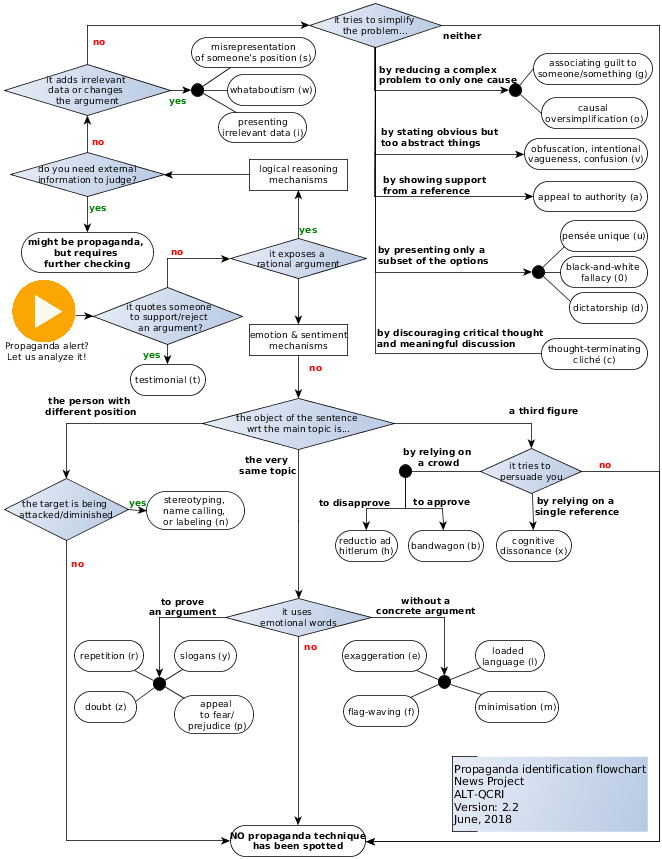
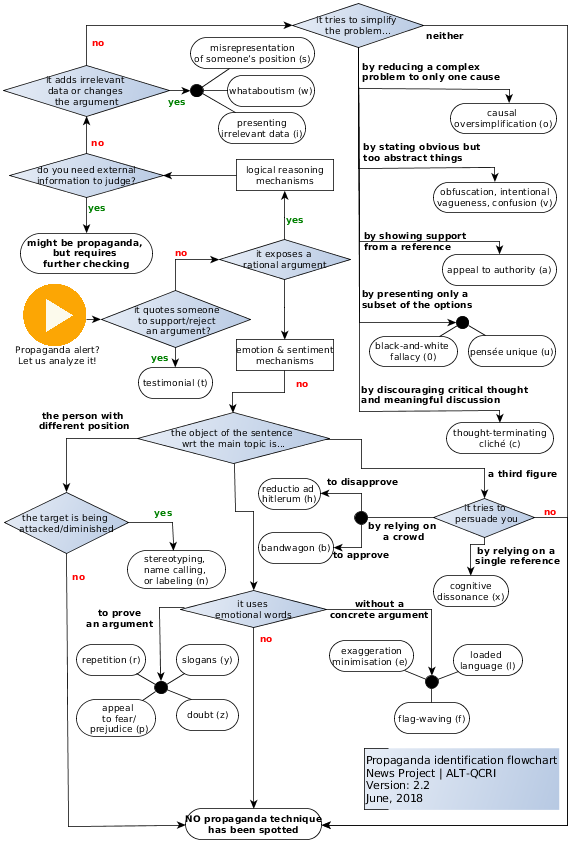
made some labels more visible; exported the flowchart on html

Changed region(s): [[0.0, 0.0, 1.0, 1.0], [0.2088, 0.9561, 0.2684, 0.987]]

diff --git a/flowchart/structuring_propaganda_mechanism_decision.html b/flowchart/structuring_propaganda_mechanism_decision.html
@@ -98,130 +98,122 @@ tooltip.style.display = "none";
 <div class="tooltip" id="n5">Attempting to arouse prejudices in<br> an audience by labeling the object<br> of the propaganda campaign as<br> something the target audience<br> fears, hates, or finds undesirable</div>
 <div class="tooltip" id="n6">it uses <br>emotional words</div>
 <div class="tooltip" id="n7">Using specific words and phrases<br> with strong emotional implications to<br> influence an audience<br></div>
-<div class="tooltip" id="n8">Making something seem less<br> important or smaller than it really is</div>
-<div class="tooltip" id="n9">Representation of something in an<br> excessive manner</div>
-<div class="tooltip" id="n10">Justifying an action based on the<br> undue connection to nationalism or<br> patriotism</div>
-<div class="tooltip" id="n11">Questioning something or someone's<br> credibility</div>
-<div class="tooltip" id="n12">appeal <br>to fear/<br>prejudice (p)</div>
-<div class="tooltip" id="n13">A brief and striking phrase that may<br> include labeling and stereotyping.<br> Slogans tend to act only as<br> emotional appeals</div>
-<div class="tooltip" id="n14">it tries to <br>persuade you<br></div>
-<div class="tooltip" id="n18"> do you need external <br>information to judge?</div>
-<div class="tooltip" id="n19">might be propaganda, <br>but requires <br>further checking</div>
-<div class="tooltip" id="n20">it tries to simplify <br>the problem...</div>
-<div class="tooltip" id="n22">Moving the audience by using<br> undefined phrases, without<br> analyzing their validity or<br> attempting to determine their<br> reasonableness or application.<br></div>
-<div class="tooltip" id="n23">Moving blame and responsibility away<br> from themselves by attributing it to<br> others</div>
-<div class="tooltip" id="n24">Providing one single simple cause for a complex problem.<br>Example: “President Trump has been in office for a month and <br>gas prices have been skyrocketing. <br>The rise in gas prices is because<br> of President Trump.”</div>
-<div class="tooltip" id="n25">Enforced reduction of discussion by<br> use of overly simplistic phrases or<br> arguments</div>
-<div class="tooltip" id="n26">Presenting two alternative options as<br> the only possibilities, when in fact<br> more possibilities exist</div>
-<div class="tooltip" id="n27">it adds irrelevant <br>data or changes <br>the argument	</div>
-<div class="tooltip" id="n29">discredit an opponent's proposition by mentioning <br>an event that discredit the opponent or distract <br>the attention from the <br>main claim: ``What about...?''</div>
-<div class="tooltip" id="n30">Using data or issues that are<br> irrelevant to validate an argument</div>
-<div class="tooltip" id="n31">(straw men): when an opponent's<br> proposition is substituted with a<br> similar one which is then refuted <br>in place of the original proposition.<br></div>
-<div class="tooltip" id="n32">NO propaganda technique<br>has been spotted<br></div>
-<div class="tooltip" id="n33">Propaganda identification flowchart<br>News Project<br>ALT-QCRI<br>Version: 2.2<br>June, 2018</div>
-<div class="tooltip" id="n35">Simplify the decision making<br> process by using words to tell the<br> audience exactly what actions to<br> take, eliminating any other<br> possible choices</div>
-<div class="tooltip" id="n36">Cite prominent figures to support a<br> position, idea, argument, or course<br> of action</div>
-<div class="tooltip" id="n37">Using someones’ else endorsement<br> of a candidate or a product to<br> change people's minds because<br> people cannot tolerate <br>inconsistency</div>
-<div class="tooltip" id="n38">Words or phrases that discourage<br> critical thought and meaningful<br> discussion about a given topic</div>
-<div class="tooltip" id="n39">Attempting to persuade the target<br> audience to join in and take the<br> course of action because "everyone<br> else is taking the same action"</div>
-<div class="tooltip" id="n40">Persuading an audience to<br> disapprove an action or idea by<br> suggesting that the idea is<br> popular with groups hated in<br> contempt by the target audience<br></div>
-<div class="tooltip" id="n41">it quotes someone <br>to support/reject <br>an argument?</div>
-<div class="tooltip" id="n42">Quotations, in or out of context,<br> especially cited to support or reject<br> a given policy, action, program, or<br> personality</div>
-<div class="tooltip" id="n43">repetition (r)</div>
+<div class="tooltip" id="n8">Representation of something in an<br> excessive manner</div>
+<div class="tooltip" id="n9">Justifying an action based on the<br> undue connection to nationalism or<br> patriotism</div>
+<div class="tooltip" id="n10">Questioning something or someone's<br> credibility</div>
+<div class="tooltip" id="n11">appeal <br>to fear/<br>prejudice (p)</div>
+<div class="tooltip" id="n12">A brief and striking phrase that may<br> include labeling and stereotyping.<br> Slogans tend to act only as<br> emotional appeals</div>
+<div class="tooltip" id="n13">it tries to <br>persuade you<br></div>
+<div class="tooltip" id="n16"> do you need external <br>information to judge?</div>
+<div class="tooltip" id="n17">might be propaganda, <br>but requires <br>further checking</div>
+<div class="tooltip" id="n18">it tries to simplify <br>the problem...</div>
+<div class="tooltip" id="n20">Moving the audience by using<br> undefined phrases, without<br> analyzing their validity or<br> attempting to determine their<br> reasonableness or application.<br></div>
+<div class="tooltip" id="n21">Providing one single simple cause for a complex problem.<br>Example: “President Trump has been in office for a month and <br>gas prices have been skyrocketing. <br>The rise in gas prices is because<br> of President Trump.”</div>
+<div class="tooltip" id="n22">Enforced reduction of discussion by<br> use of overly simplistic phrases or<br> arguments</div>
+<div class="tooltip" id="n23">Presenting two alternative options as<br> the only possibilities, when in fact<br> more possibilities exist</div>
+<div class="tooltip" id="n24">it adds irrelevant <br>data or changes <br>the argument	</div>
+<div class="tooltip" id="n26">discredit an opponent's proposition by mentioning <br>an event that discredit the opponent or distract <br>the attention from the <br>main claim: ``What about...?''</div>
+<div class="tooltip" id="n27">Using data or issues that are<br> irrelevant to validate an argument</div>
+<div class="tooltip" id="n28">(straw men): when an opponent's<br> proposition is substituted with a<br> similar one which is then refuted <br>in place of the original proposition.<br></div>
+<div class="tooltip" id="n29">NO propaganda technique<br>has been spotted<br></div>
+<div class="tooltip" id="n30">Propaganda identification flowchart<br>News Project | ALT-QCRI<br>Version: 2.2<br>June, 2018</div>
+<div class="tooltip" id="n32">Cite prominent figures to support a<br> position, idea, argument, or course<br> of action</div>
+<div class="tooltip" id="n33">Using someones’ else endorsement<br> of a candidate or a product to<br> change people's minds because<br> people cannot tolerate <br>inconsistency</div>
+<div class="tooltip" id="n34">Words or phrases that discourage<br> critical thought and meaningful<br> discussion about a given topic</div>
+<div class="tooltip" id="n35">Attempting to persuade the target<br> audience to join in and take the<br> course of action because "everyone<br> else is taking the same action"</div>
+<div class="tooltip" id="n36">Persuading an audience to<br> disapprove an action or idea by<br> suggesting that the idea is<br> popular with groups hated in<br> contempt by the target audience<br></div>
+<div class="tooltip" id="n37">it quotes someone <br>to support/reject <br>an argument?</div>
+<div class="tooltip" id="n38">Quotations, in or out of context,<br> especially cited to support or reject<br> a given policy, action, program, or<br> personality</div>
+<div class="tooltip" id="n39">repetition (r)</div>
 <div class="tooltip" id="e0">no</div>
 <div class="tooltip" id="e1">yes</div>
 <div class="tooltip" id="e3">no</div>
 <div class="tooltip" id="e4">without a<br>concrete argument</div>
-<div class="tooltip" id="e9">yes</div>
-<div class="tooltip" id="e10">no</div>
-<div class="tooltip" id="e11">to prove<br>an argument</div>
-<div class="tooltip" id="e15">the person with <br>different position<br></div>
-<div class="tooltip" id="e16">the very <br>same topic</div>
-<div class="tooltip" id="e17">yes</div>
-<div class="tooltip" id="e18">by stating obvious but <br>too abstract things</div>
-<div class="tooltip" id="e19">by presenting only a<br>subset of the options</div>
-<div class="tooltip" id="e20">no</div>
-<div class="tooltip" id="e21">yes</div>
-<div class="tooltip" id="e29">no</div>
-<div class="tooltip" id="e30">neither</div>
-<div class="tooltip" id="e31">no</div>
-<div class="tooltip" id="e32">a third figure</div>
-<div class="tooltip" id="e34">by reducing a complex <br>problem to only one cause</div>
-<div class="tooltip" id="e36">by showing support <br>from a reference</div>
-<div class="tooltip" id="e37">no</div>
-<div class="tooltip" id="e39">to approve</div>
-<div class="tooltip" id="e40">yes</div>
-<div class="tooltip" id="e42">by relying on a <br>single reference</div>
-<div class="tooltip" id="e43">by relying on <br>a crowd</div>
-<div class="tooltip" id="e44">by discouraging critical thought <br>and meaningful discussion</div>
-<div class="tooltip" id="e45">to disapprove</div>
+<div class="tooltip" id="e8">yes</div>
+<div class="tooltip" id="e9">no</div>
+<div class="tooltip" id="e10">to prove<br>an argument</div>
+<div class="tooltip" id="e14">the person with <br>different position<br></div>
+<div class="tooltip" id="e15">yes</div>
+<div class="tooltip" id="e16">by stating obvious but <br>too abstract things</div>
+<div class="tooltip" id="e17">by presenting only a<br>subset of the options</div>
+<div class="tooltip" id="e18">no</div>
+<div class="tooltip" id="e19">yes</div>
+<div class="tooltip" id="e25">no</div>
+<div class="tooltip" id="e26">neither</div>
+<div class="tooltip" id="e27">no</div>
+<div class="tooltip" id="e28">a third figure</div>
+<div class="tooltip" id="e30">by reducing a complex <br>problem to only one cause</div>
+<div class="tooltip" id="e31">by showing support <br>from a reference</div>
+<div class="tooltip" id="e32">no</div>
+<div class="tooltip" id="e34">to approve</div>
+<div class="tooltip" id="e35">yes</div>
+<div class="tooltip" id="e37">by relying on a <br>single reference</div>
+<div class="tooltip" id="e38">by relying on <br>a crowd</div>
+<div class="tooltip" id="e39">by discouraging critical thought <br>and meaningful discussion</div>
+<div class="tooltip" id="e40">to disapprove</div>
 
 <map name="image1_1">
-  <area shape="poly" coords="401,477,401,508,405,508,405,504,366,504,362,508,362,524,370,524,370,508,366,508,366,512,405,512,409,508,409,477,401,477,401,477" alt="" onmouseover="showTooltip('e45')" onmouseout="hideTooltip()"/>
-  <area shape="poly" coords="371,47,371,154,371,353,375,357,541,357,541,350,375,350,375,353,379,353,379,154,379,47,371,47,371,47" alt="" onmouseover="showTooltip('e44')" onmouseout="hideTooltip()"/>
-  <area shape="poly" coords="480,467,411,467,411,474,480,474,480,467,480,467" alt="" onmouseover="showTooltip('e43')" onmouseout="hideTooltip()"/>
-  <area shape="poly" coords="528,493,529,524,536,524,535,493,528,493,528,493" alt="" onmouseover="showTooltip('e42')" onmouseout="hideTooltip()"/>
-  <area shape="poly" coords="163,344,163,358,171,358,171,344,163,344,163,344" alt="" onmouseover="showTooltip('e40')" onmouseout="hideTooltip()"/>
-  <area shape="poly" coords="401,477,401,508,405,512,442,512,442,508,438,508,439,524,446,524,446,508,446,504,442,504,405,504,405,508,409,508,409,477,401,477,401,477" alt="" onmouseover="showTooltip('e39')" onmouseout="hideTooltip()"/>
-  <area shape="poly" coords="171,287,171,258,167,258,167,262,223,262,223,255,167,255,163,258,163,287,171,287,171,287" alt="" onmouseover="showTooltip('e37')" onmouseout="hideTooltip()"/>
-  <area shape="poly" coords="371,47,370,196,374,200,527,200,527,192,374,192,374,196,378,196,379,47,371,47,371,47" alt="" onmouseover="showTooltip('e36')" onmouseout="hideTooltip()"/>
-  <area shape="poly" coords="371,46,370,89,374,93,503,93,503,86,374,86,374,90,377,90,378,47,371,46,371,46" alt="" onmouseover="showTooltip('e34')" onmouseout="hideTooltip()"/>
-  <area shape="poly" coords="394,427,531,427,531,423,527,423,527,442,535,442,535,423,531,419,394,419,394,427,394,427" alt="" onmouseover="showTooltip('e32')" onmouseout="hideTooltip()"/>
-  <area shape="poly" coords="581,474,659,474,659,471,655,471,655,841,659,841,659,838,370,838,365,837,365,845,370,845,659,845,663,841,662,471,659,467,581,467,581,474,581,474" alt="" onmouseover="showTooltip('e31')" onmouseout="hideTooltip()"/>
-  <area shape="poly" coords="441,29,659,29,659,25,655,25,655,841,659,841,659,837,372,837,372,845,659,845,662,841,662,25,659,21,441,21,441,29,441,29" alt="" onmouseover="showTooltip('e30')" onmouseout="hideTooltip()"/>
-  <area shape="poly" coords="91,64,91,25,87,25,87,29,303,29,303,21,87,21,83,25,83,64,91,64,91,64" alt="" onmouseover="showTooltip('e29')" onmouseout="hideTooltip()"/>
-  <area shape="poly" coords="170,93,185,93,185,86,170,86,170,93,170,93" alt="" onmouseover="showTooltip('e21')" onmouseout="hideTooltip()"/>
-  <area shape="poly" coords="91,152,91,121,83,121,83,152,91,152,91,152" alt="" onmouseover="showTooltip('e20')" onmouseout="hideTooltip()"/>
-  <area shape="poly" coords="371,47,371,272,375,275,526,275,526,268,375,268,375,272,379,272,379,47,371,47,371,47" alt="" onmouseover="showTooltip('e19')" onmouseout="hideTooltip()"/>
-  <area shape="poly" coords="371,47,371,154,375,158,518,158,518,150,375,150,375,154,379,154,379,47,371,47,371,47" alt="" onmouseover="showTooltip('e18')" onmouseout="hideTooltip()"/>
-  <area shape="poly" coords="83,196,83,226,91,226,91,196,83,196,83,196" alt="" onmouseover="showTooltip('e17')" onmouseout="hideTooltip()"/>
-  <area shape="poly" coords="294,449,294,520,298,524,298,524,298,520,294,520,294,592,302,592,302,520,298,516,298,516,298,520,302,520,302,449,294,449,294,449" alt="" onmouseover="showTooltip('e16')" onmouseout="hideTooltip()"/>
-  <area shape="poly" coords="202,419,66,419,62,423,62,472,70,472,70,423,66,423,66,427,202,427,202,419,202,419" alt="" onmouseover="showTooltip('e15')" onmouseout="hideTooltip()"/>
-  <area shape="poly" coords="226,613,159,614,155,617,155,671,163,671,163,617,159,617,159,621,226,621,226,613,226,613" alt="" onmouseover="showTooltip('e11')" onmouseout="hideTooltip()"/>
-  <area shape="poly" coords="62,540,62,840,66,844,223,844,223,836,66,836,66,840,70,840,70,540,62,540,62,540" alt="" onmouseover="showTooltip('e10')" onmouseout="hideTooltip()"/>
-  <area shape="poly" coords="127,513,140,514,140,506,128,505,127,513,127,513" alt="" onmouseover="showTooltip('e9')" onmouseout="hideTooltip()"/>
-  <area shape="poly" coords="371,621,444,621,444,617,440,617,440,669,448,669,448,617,444,613,371,613,371,621,371,621" alt="" onmouseover="showTooltip('e4')" onmouseout="hideTooltip()"/>
-  <area shape="poly" coords="294,636,294,819,301,819,302,636,294,636,294,636" alt="" onmouseover="showTooltip('e3')" onmouseout="hideTooltip()"/>
-  <area shape="poly" coords="302,238,302,196,294,196,294,238,302,238,302,238" alt="" onmouseover="showTooltip('e1')" onmouseout="hideTooltip()"/>
-  <area shape="poly" coords="294,278,294,318,302,318,302,278,294,278,294,278" alt="" onmouseover="showTooltip('e0')" onmouseout="hideTooltip()"/>
-  <area shape="rect" coords="74,640,143,671" href="definitions.html#repetition" alt="" onmouseover="showTooltip('n43')" onmouseout="hideTooltip()" target="_blank"/>
-  <area shape="rect" coords="130,364,205,395" href="definitions.html#testimonial" alt="" onmouseover="showTooltip('n42')" onmouseout="hideTooltip()" target="_blank"/>
-  <area shape="rect" coords="93,287,242,344" alt="" onmouseover="showTooltip('n41')" onmouseout="hideTooltip()"/>
-  <area shape="rect" coords="335,530,397,561" href="definitions.html#reduction_ad_hitlerum" alt="" onmouseover="showTooltip('n40')" onmouseout="hideTooltip()" target="_blank"/>
-  <area shape="rect" coords="408,530,483,561" href="definitions.html#bandwagon" alt="" onmouseover="showTooltip('n39')" onmouseout="hideTooltip()" target="_blank"/>
-  <area shape="rect" coords="541,338,647,369" href="definitions.html#thought-terminating_cliche" alt="" onmouseover="showTooltip('n38')" onmouseout="hideTooltip()" target="_blank"/>
-  <area shape="rect" coords="496,530,571,561" href="definitions.html#cognitive_dissonance" alt="" onmouseover="showTooltip('n37')" onmouseout="hideTooltip()" target="_blank"/>
-  <area shape="rect" coords="533,181,647,211" href="definitions.html#appeal_to_authority" alt="" onmouseover="showTooltip('n36')" onmouseout="hideTooltip()" target="_blank"/>
-  <area shape="rect" coords="569,292,647,323" href="definitions.html#dictatorship" alt="" onmouseover="showTooltip('n35')" onmouseout="hideTooltip()" target="_blank"/>
-  <area shape="rect" coords="452,756,647,831" alt="" onmouseover="showTooltip('n33')" onmouseout="hideTooltip()"/>
-  <area shape="rect" coords="230,825,365,856" alt="" onmouseover="showTooltip('n32')" onmouseout="hideTooltip()"/>
-  <area shape="rect" coords="191,37,315,67" href="definitions.html#misrepresentation_of_someone_position" alt="" onmouseover="showTooltip('n31')" onmouseout="hideTooltip()" target="_blank"/>
-  <area shape="rect" coords="218,112,306,142" href="definitions.html#presenting_irrelevant_data" alt="" onmouseover="showTooltip('n30')" onmouseout="hideTooltip()" target="_blank"/>
-  <area shape="rect" coords="227,74,315,105" href="definitions.html#whataboutism" alt="" onmouseover="showTooltip('n29')" onmouseout="hideTooltip()" target="_blank"/>
-  <area shape="rect" coords="4,64,170,115" alt="" onmouseover="showTooltip('n27')" onmouseout="hideTooltip()"/>
-  <area shape="rect" coords="560,256,647,287" href="definitions.html#black-and-white_fallacy" alt="" onmouseover="showTooltip('n26')" onmouseout="hideTooltip()" target="_blank"/>
-  <area shape="rect" coords="560,220,647,251" href="definitions.html#pensee_unique" alt="" onmouseover="showTooltip('n25')" onmouseout="hideTooltip()" target="_blank"/>
-  <area shape="rect" coords="541,97,647,128" href="definitions.html#causal_oversimplification" alt="" onmouseover="showTooltip('n24')" onmouseout="hideTooltip()" target="_blank"/>
-  <area shape="rect" coords="533,53,652,84" href="definitions.html#associating_guilt_to_someone_something" alt="" onmouseover="showTooltip('n23')" onmouseout="hideTooltip()" target="_blank"/>
-  <area shape="rect" coords="524,138,647,169" href="definitions.html#obfuscation_intentional_vagueness_confusion" alt="" onmouseover="showTooltip('n22')" onmouseout="hideTooltip()" target="_blank"/>
-  <area shape="rect" coords="309,3,441,47" alt="" onmouseover="showTooltip('n20')" onmouseout="hideTooltip()"/>
-  <area shape="rect" coords="21,232,153,272" alt="" onmouseover="showTooltip('n19')" onmouseout="hideTooltip()"/>
-  <area shape="rect" coords="10,152,164,196" alt="" onmouseover="showTooltip('n18')" onmouseout="hideTooltip()"/>
-  <area shape="rect" coords="480,448,581,493" alt="" onmouseover="showTooltip('n14')" onmouseout="hideTooltip()"/>
-  <area shape="rect" coords="174,640,236,671" href="definitions.html#slogans" alt="" onmouseover="showTooltip('n13')" onmouseout="hideTooltip()" target="_blank"/>
-  <area shape="rect" coords="174,695,253,733" href="definitions.html#appeal_to_fear_prejudice" alt="" onmouseover="showTooltip('n12')" onmouseout="hideTooltip()" target="_blank"/>
-  <area shape="rect" coords="74,691,136,722" href="definitions.html#doubt" alt="" onmouseover="showTooltip('n11')" onmouseout="hideTooltip()" target="_blank"/>
-  <area shape="rect" coords="343,695,418,726" href="definitions.html#flag-waving" alt="" onmouseover="showTooltip('n10')" onmouseout="hideTooltip()" target="_blank"/>
-  <area shape="rect" coords="342,640,426,671" href="definitions.html#exaggeration" alt="" onmouseover="showTooltip('n9')" onmouseout="hideTooltip()" target="_blank"/>
-  <area shape="rect" coords="475,691,558,722" href="definitions.html#minimisation" alt="" onmouseover="showTooltip('n8')" onmouseout="hideTooltip()" target="_blank"/>
-  <area shape="rect" coords="475,640,544,671" href="definitions.html#loaded_language" alt="" onmouseover="showTooltip('n7')" onmouseout="hideTooltip()" target="_blank"/>
-  <area shape="rect" coords="225,598,371,636" alt="" onmouseover="showTooltip('n6')" onmouseout="hideTooltip()"/>
-  <area shape="rect" coords="146,491,244,529" href="definitions.html#stereotyping_name_calling_or_labeling" alt="" onmouseover="showTooltip('n5')" onmouseout="hideTooltip()" target="_blank"/>
-  <area shape="rect" coords="4,478,128,540" alt="" onmouseover="showTooltip('n4')" onmouseout="hideTooltip()"/>
-  <area shape="rect" coords="202,398,394,449" alt="" onmouseover="showTooltip('n3')" onmouseout="hideTooltip()"/>
-  <area shape="rect" coords="249,159,347,190" alt="" onmouseover="showTooltip('n2')" onmouseout="hideTooltip()"/>
-  <area shape="rect" coords="249,324,347,355" alt="" onmouseover="showTooltip('n1')" onmouseout="hideTooltip()"/>
-  <area shape="rect" coords="230,238,366,278" alt="" onmouseover="showTooltip('n0')" onmouseout="hideTooltip()"/>
+  <area shape="poly" coords="365,511,365,493,361,489,326,489,326,497,361,496,361,493,357,493,357,511,365,511,365,511" alt="" onmouseover="showTooltip('e40')" onmouseout="hideTooltip()"/>
+  <area shape="poly" coords="354,47,355,241,355,411,359,415,499,414,499,410,496,410,496,416,503,416,503,410,499,406,359,407,359,411,363,411,363,241,362,47,354,47,354,47" alt="" onmouseover="showTooltip('e39')" onmouseout="hideTooltip()"/>
+  <area shape="poly" coords="433,514,367,514,367,521,433,521,433,514,433,514" alt="" onmouseover="showTooltip('e38')" onmouseout="hideTooltip()"/>
+  <area shape="poly" coords="480,537,480,544,484,544,484,540,470,540,466,544,466,569,466,569,474,569,474,569,474,544,470,544,470,547,484,547,488,544,488,537,480,537,480,537" alt="" onmouseover="showTooltip('e37')" onmouseout="hideTooltip()"/>
+  <area shape="poly" coords="171,347,171,361,179,361,179,347,171,347,171,347" alt="" onmouseover="showTooltip('e35')" onmouseout="hideTooltip()"/>
+  <area shape="poly" coords="357,524,357,547,361,547,361,543,339,543,339,551,361,551,365,547,365,524,357,524,357,524" alt="" onmouseover="showTooltip('e34')" onmouseout="hideTooltip()"/>
+  <area shape="poly" coords="179,290,179,259,175,259,175,263,213,263,213,255,175,255,171,259,171,290,179,290,179,290" alt="" onmouseover="showTooltip('e32')" onmouseout="hideTooltip()"/>
+  <area shape="poly" coords="354,47,355,241,355,245,359,245,499,245,499,241,495,241,495,248,503,248,503,241,499,237,359,237,359,241,363,241,362,47,354,47,354,47" alt="" onmouseover="showTooltip('e31')" onmouseout="hideTooltip()"/>
+  <area shape="poly" coords="354,47,354,88,355,92,358,92,509,93,509,89,505,89,505,96,512,96,512,89,509,85,358,84,358,88,362,88,362,47,354,47,354,47" alt="" onmouseover="showTooltip('e30')" onmouseout="hideTooltip()"/>
+  <area shape="poly" coords="325,443,361,443,361,439,357,439,357,468,361,472,484,472,484,468,480,468,480,492,488,492,488,468,484,464,361,465,361,468,365,468,365,439,365,435,361,435,325,435,325,443,325,443" alt="" onmouseover="showTooltip('e28')" onmouseout="hideTooltip()"/>
+  <area shape="poly" coords="534,521,567,521,567,517,563,517,563,825,567,825,567,821,327,821,327,829,567,829,571,825,571,517,567,514,534,514,534,521,534,521" alt="" onmouseover="showTooltip('e27')" onmouseout="hideTooltip()"/>
+  <area shape="poly" coords="423,29,567,29,567,25,563,25,563,825,567,825,567,821,327,821,327,828,567,828,571,825,571,25,567,21,423,21,423,29,423,29" alt="" onmouseover="showTooltip('e26')" onmouseout="hideTooltip()"/>
+  <area shape="poly" coords="90,65,90,25,86,25,86,29,286,29,286,21,86,21,82,25,82,65,90,65,90,65" alt="" onmouseover="showTooltip('e25')" onmouseout="hideTooltip()"/>
+  <area shape="poly" coords="169,94,184,94,184,86,169,86,169,94,169,94" alt="" onmouseover="showTooltip('e19')" onmouseout="hideTooltip()"/>
+  <area shape="poly" coords="90,153,90,122,82,122,82,153,90,153,90,153" alt="" onmouseover="showTooltip('e18')" onmouseout="hideTooltip()"/>
+  <area shape="poly" coords="354,47,355,322,359,326,450,326,450,318,359,319,359,322,363,322,362,47,354,47,354,47" alt="" onmouseover="showTooltip('e17')" onmouseout="hideTooltip()"/>
+  <area shape="poly" coords="354,47,355,168,358,172,494,171,494,167,491,167,491,175,498,175,498,167,494,163,358,164,358,168,362,168,362,47,354,47,354,47" alt="" onmouseover="showTooltip('e16')" onmouseout="hideTooltip()"/>
+  <area shape="poly" coords="82,197,82,227,90,227,90,197,82,197,82,197" alt="" onmouseover="showTooltip('e15')" onmouseout="hideTooltip()"/>
+  <area shape="poly" coords="137,434,66,434,62,438,62,485,70,485,70,438,66,438,66,442,137,442,137,434,137,434" alt="" onmouseover="showTooltip('e14')" onmouseout="hideTooltip()"/>
+  <area shape="poly" coords="185,604,160,603,159,603,155,607,157,675,164,674,163,607,159,607,159,611,160,611,184,611,185,604,185,604" alt="" onmouseover="showTooltip('e10')" onmouseout="hideTooltip()"/>
+  <area shape="poly" coords="62,553,64,826,68,830,179,828,179,821,68,822,68,826,72,826,70,553,62,553,62,553" alt="" onmouseover="showTooltip('e9')" onmouseout="hideTooltip()"/>
+  <area shape="poly" coords="127,526,172,526,172,522,168,522,169,544,177,544,176,522,176,518,172,518,127,518,127,526,127,526" alt="" onmouseover="showTooltip('e8')" onmouseout="hideTooltip()"/>
+  <area shape="poly" coords="326,612,431,612,431,609,428,609,428,669,435,669,435,609,431,605,326,605,326,612,326,612" alt="" onmouseover="showTooltip('e4')" onmouseout="hideTooltip()"/>
+  <area shape="poly" coords="249,627,249,802,257,802,257,627,249,627,249,627" alt="" onmouseover="showTooltip('e3')" onmouseout="hideTooltip()"/>
+  <area shape="poly" coords="288,239,288,217,284,213,284,213,284,217,288,217,288,196,280,196,280,217,284,221,284,221,284,217,281,217,281,239,288,239,288,239" alt="" onmouseover="showTooltip('e1')" onmouseout="hideTooltip()"/>
+  <area shape="poly" coords="281,279,281,307,284,307,284,303,284,303,280,307,280,333,288,333,288,307,284,307,284,311,284,311,288,307,288,279,281,279,281,279" alt="" onmouseover="showTooltip('e0')" onmouseout="hideTooltip()"/>
+  <area shape="rect" coords="76,644,145,675" href="definitions.html#repetition" alt="" onmouseover="showTooltip('n39')" onmouseout="hideTooltip()" target="_blank"/>
+  <area shape="rect" coords="138,367,212,398" href="definitions.html#testimonial" alt="" onmouseover="showTooltip('n38')" onmouseout="hideTooltip()" target="_blank"/>
+  <area shape="rect" coords="101,290,250,347" alt="" onmouseover="showTooltip('n37')" onmouseout="hideTooltip()"/>
+  <area shape="rect" coords="258,478,320,509" href="definitions.html#reduction_ad_hitlerum" alt="" onmouseover="showTooltip('n36')" onmouseout="hideTooltip()" target="_blank"/>
+  <area shape="rect" coords="258,532,333,563" href="definitions.html#bandwagon" alt="" onmouseover="showTooltip('n35')" onmouseout="hideTooltip()" target="_blank"/>
+  <area shape="rect" coords="446,422,553,453" href="definitions.html#thought-terminating_cliche" alt="" onmouseover="showTooltip('n34')" onmouseout="hideTooltip()" target="_blank"/>
+  <area shape="rect" coords="433,575,508,606" href="definitions.html#cognitive_dissonance" alt="" onmouseover="showTooltip('n33')" onmouseout="hideTooltip()" target="_blank"/>
+  <area shape="rect" coords="442,254,556,285" href="definitions.html#appeal_to_authority" alt="" onmouseover="showTooltip('n32')" onmouseout="hideTooltip()" target="_blank"/>
+  <area shape="rect" coords="364,748,559,809" alt="" onmouseover="showTooltip('n30')" onmouseout="hideTooltip()"/>
+  <area shape="rect" coords="185,808,321,839" alt="" onmouseover="showTooltip('n29')" onmouseout="hideTooltip()"/>
+  <area shape="rect" coords="190,37,314,68" href="definitions.html#misrepresentation_of_someone_position" alt="" onmouseover="showTooltip('n28')" onmouseout="hideTooltip()" target="_blank"/>
+  <area shape="rect" coords="218,112,305,143" href="definitions.html#presenting_irrelevant_data" alt="" onmouseover="showTooltip('n27')" onmouseout="hideTooltip()" target="_blank"/>
+  <area shape="rect" coords="227,75,314,106" href="definitions.html#whataboutism" alt="" onmouseover="showTooltip('n26')" onmouseout="hideTooltip()" target="_blank"/>
+  <area shape="rect" coords="3,65,169,116" alt="" onmouseover="showTooltip('n24')" onmouseout="hideTooltip()"/>
+  <area shape="rect" coords="369,336,457,366" href="definitions.html#black-and-white_fallacy" alt="" onmouseover="showTooltip('n23')" onmouseout="hideTooltip()" target="_blank"/>
+  <area shape="rect" coords="468,335,555,366" href="definitions.html#pensee_unique" alt="" onmouseover="showTooltip('n22')" onmouseout="hideTooltip()" target="_blank"/>
+  <area shape="rect" coords="450,103,556,133" href="definitions.html#causal_oversimplification" alt="" onmouseover="showTooltip('n21')" onmouseout="hideTooltip()" target="_blank"/>
+  <area shape="rect" coords="433,182,556,212" href="definitions.html#obfuscation_intentional_vagueness_confusion" alt="" onmouseover="showTooltip('n20')" onmouseout="hideTooltip()" target="_blank"/>
+  <area shape="rect" coords="292,3,423,47" alt="" onmouseover="showTooltip('n18')" onmouseout="hideTooltip()"/>
+  <area shape="rect" coords="20,233,152,273" alt="" onmouseover="showTooltip('n17')" onmouseout="hideTooltip()"/>
+  <area shape="rect" coords="9,153,163,197" alt="" onmouseover="showTooltip('n16')" onmouseout="hideTooltip()"/>
+  <area shape="rect" coords="433,498,534,537" alt="" onmouseover="showTooltip('n13')" onmouseout="hideTooltip()"/>
+  <area shape="rect" coords="176,644,238,675" href="definitions.html#slogans" alt="" onmouseover="showTooltip('n12')" onmouseout="hideTooltip()" target="_blank"/>
+  <area shape="rect" coords="76,699,155,736" href="definitions.html#appeal_to_fear_prejudice" alt="" onmouseover="showTooltip('n11')" onmouseout="hideTooltip()" target="_blank"/>
+  <area shape="rect" coords="176,699,238,730" href="definitions.html#doubt" alt="" onmouseover="showTooltip('n10')" onmouseout="hideTooltip()" target="_blank"/>
+  <area shape="rect" coords="394,702,469,733" href="definitions.html#flag-waving" alt="" onmouseover="showTooltip('n9')" onmouseout="hideTooltip()" target="_blank"/>
+  <area shape="rect" coords="329,640,413,671" href="definitions.html#exaggeration" alt="" onmouseover="showTooltip('n8')" onmouseout="hideTooltip()" target="_blank"/>
+  <area shape="rect" coords="453,644,522,675" href="definitions.html#loaded_language" alt="" onmouseover="showTooltip('n7')" onmouseout="hideTooltip()" target="_blank"/>
+  <area shape="rect" coords="180,590,326,627" alt="" onmouseover="showTooltip('n6')" onmouseout="hideTooltip()"/>
+  <area shape="rect" coords="127,550,225,588" href="definitions.html#stereotyping_name_calling_or_labeling" alt="" onmouseover="showTooltip('n5')" onmouseout="hideTooltip()" target="_blank"/>
+  <area shape="rect" coords="4,492,128,553" alt="" onmouseover="showTooltip('n4')" onmouseout="hideTooltip()"/>
+  <area shape="rect" coords="137,412,329,463" alt="" onmouseover="showTooltip('n3')" onmouseout="hideTooltip()"/>
+  <area shape="rect" coords="236,159,333,190" alt="" onmouseover="showTooltip('n2')" onmouseout="hideTooltip()"/>
+  <area shape="rect" coords="236,339,333,370" alt="" onmouseover="showTooltip('n1')" onmouseout="hideTooltip()"/>
+  <area shape="rect" coords="219,239,350,279" alt="" onmouseover="showTooltip('n0')" onmouseout="hideTooltip()"/>
 </map>
 
 
